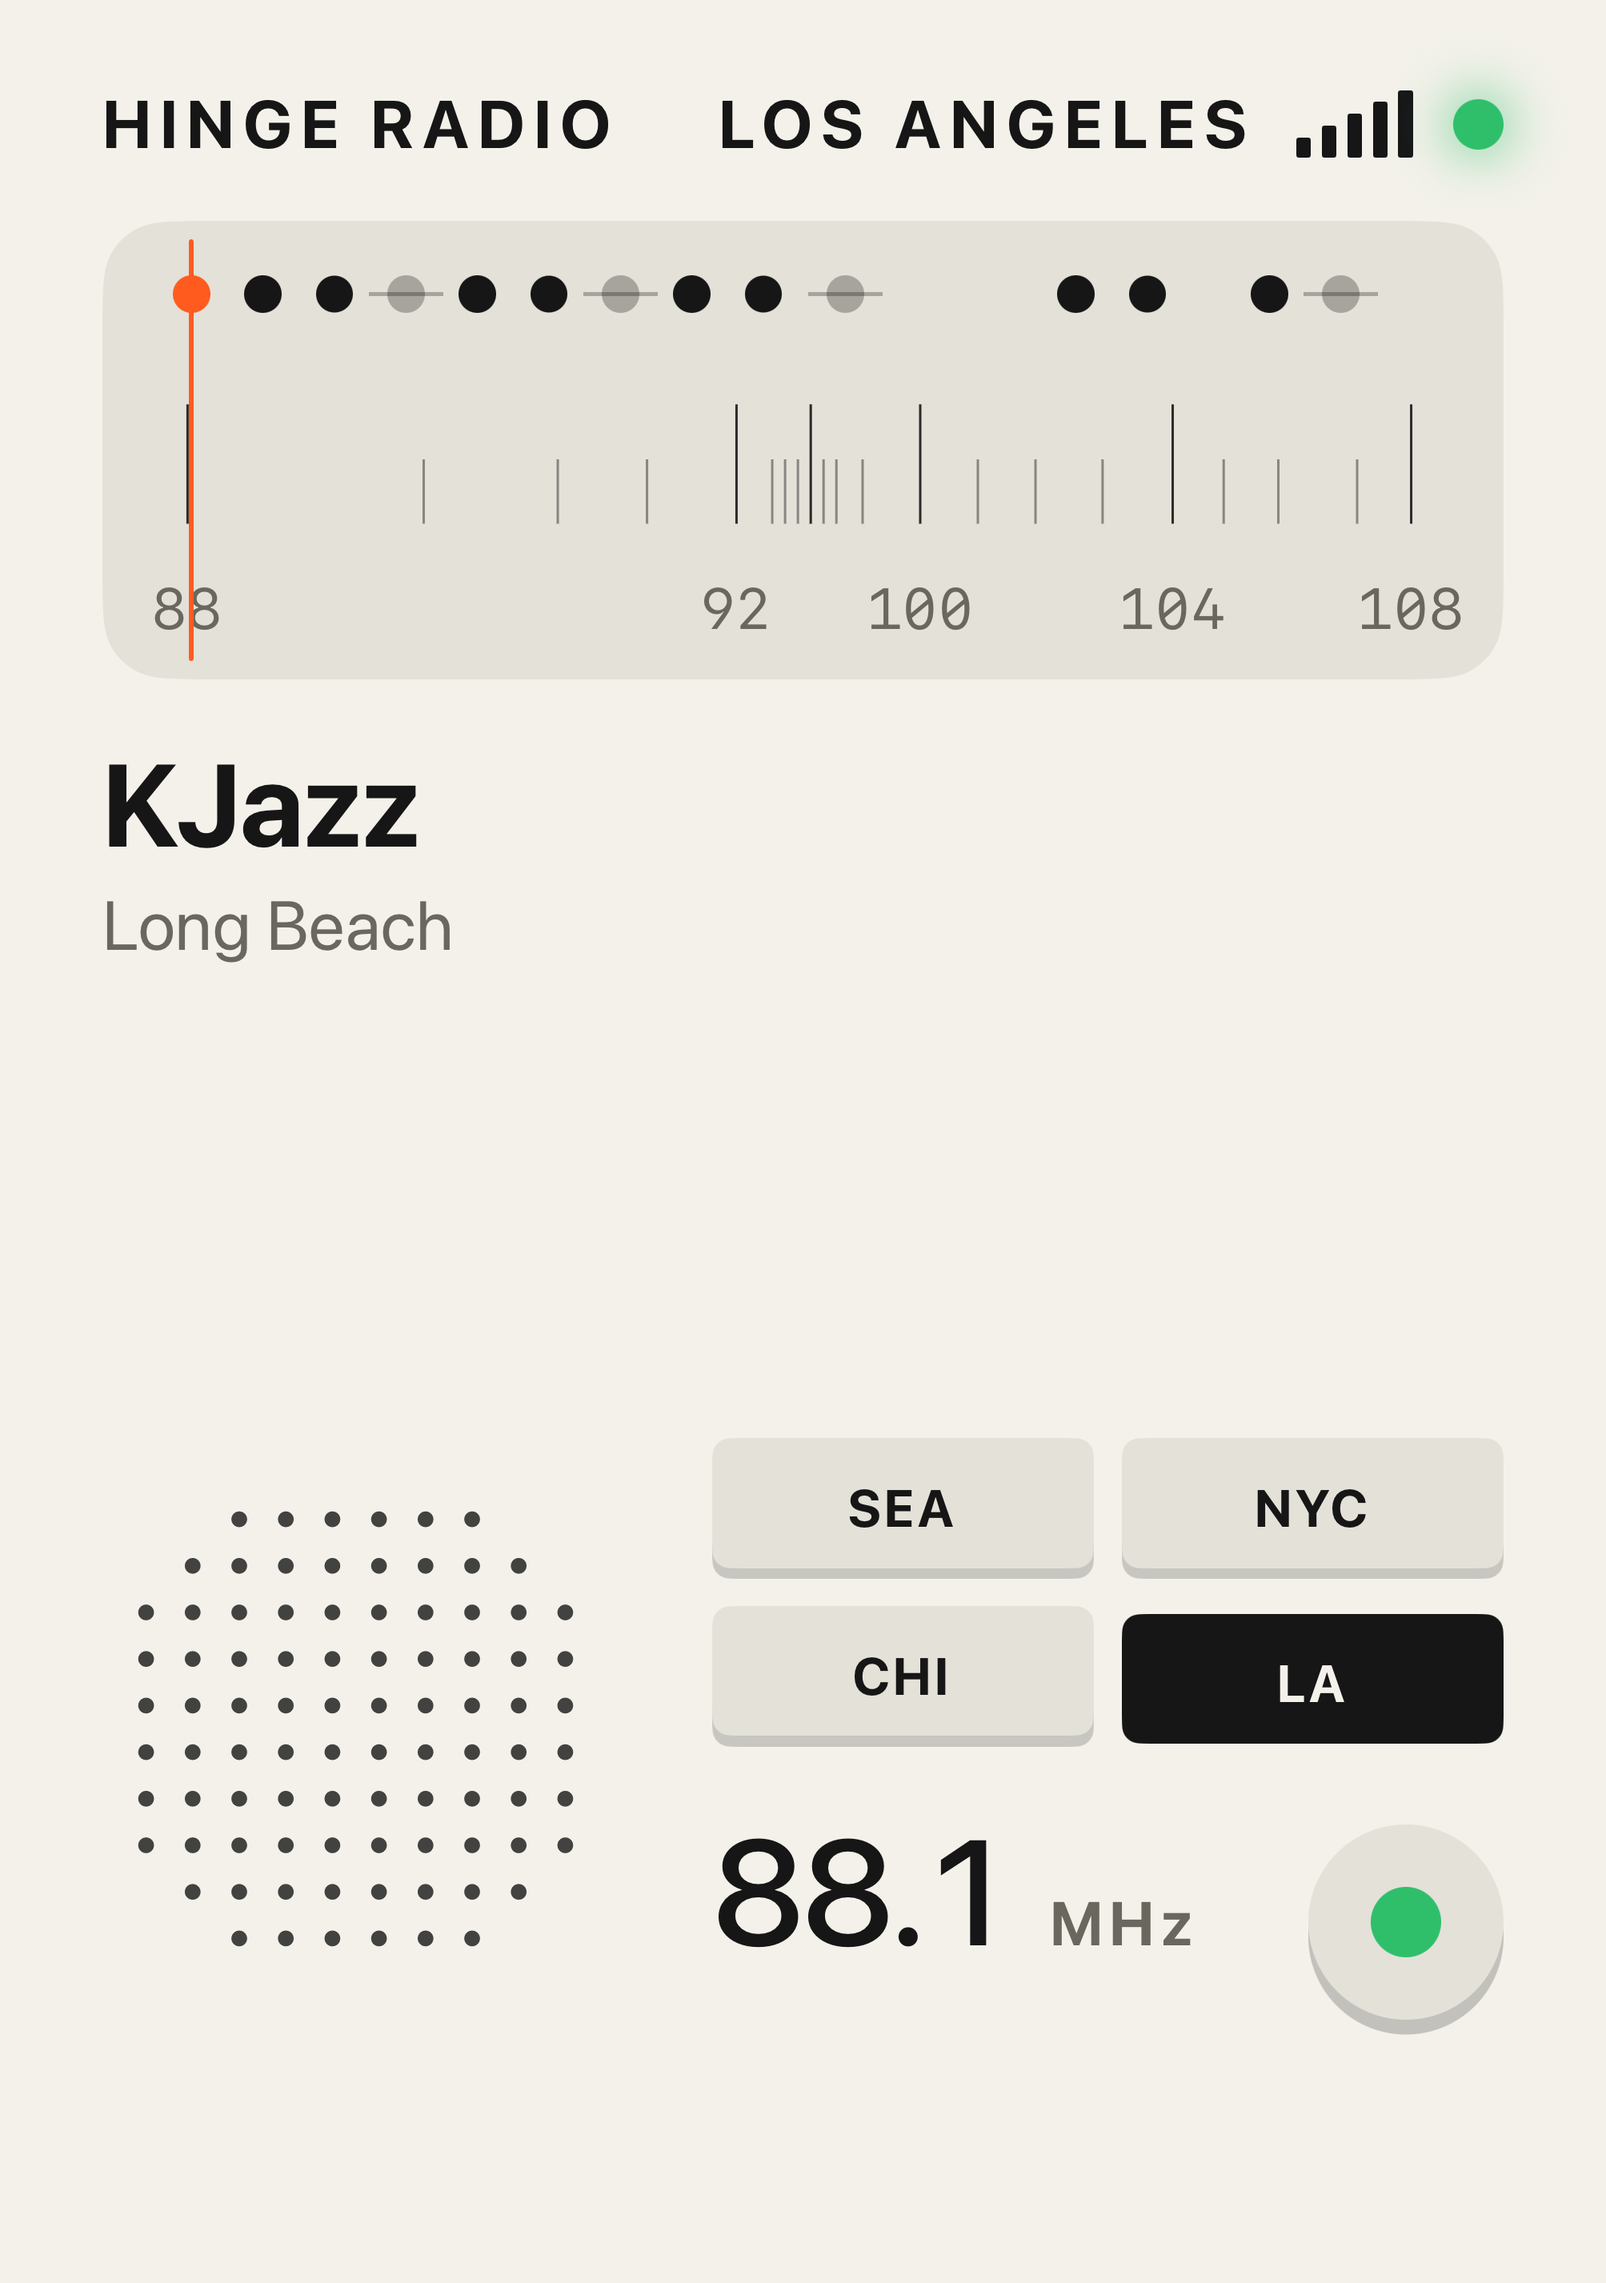
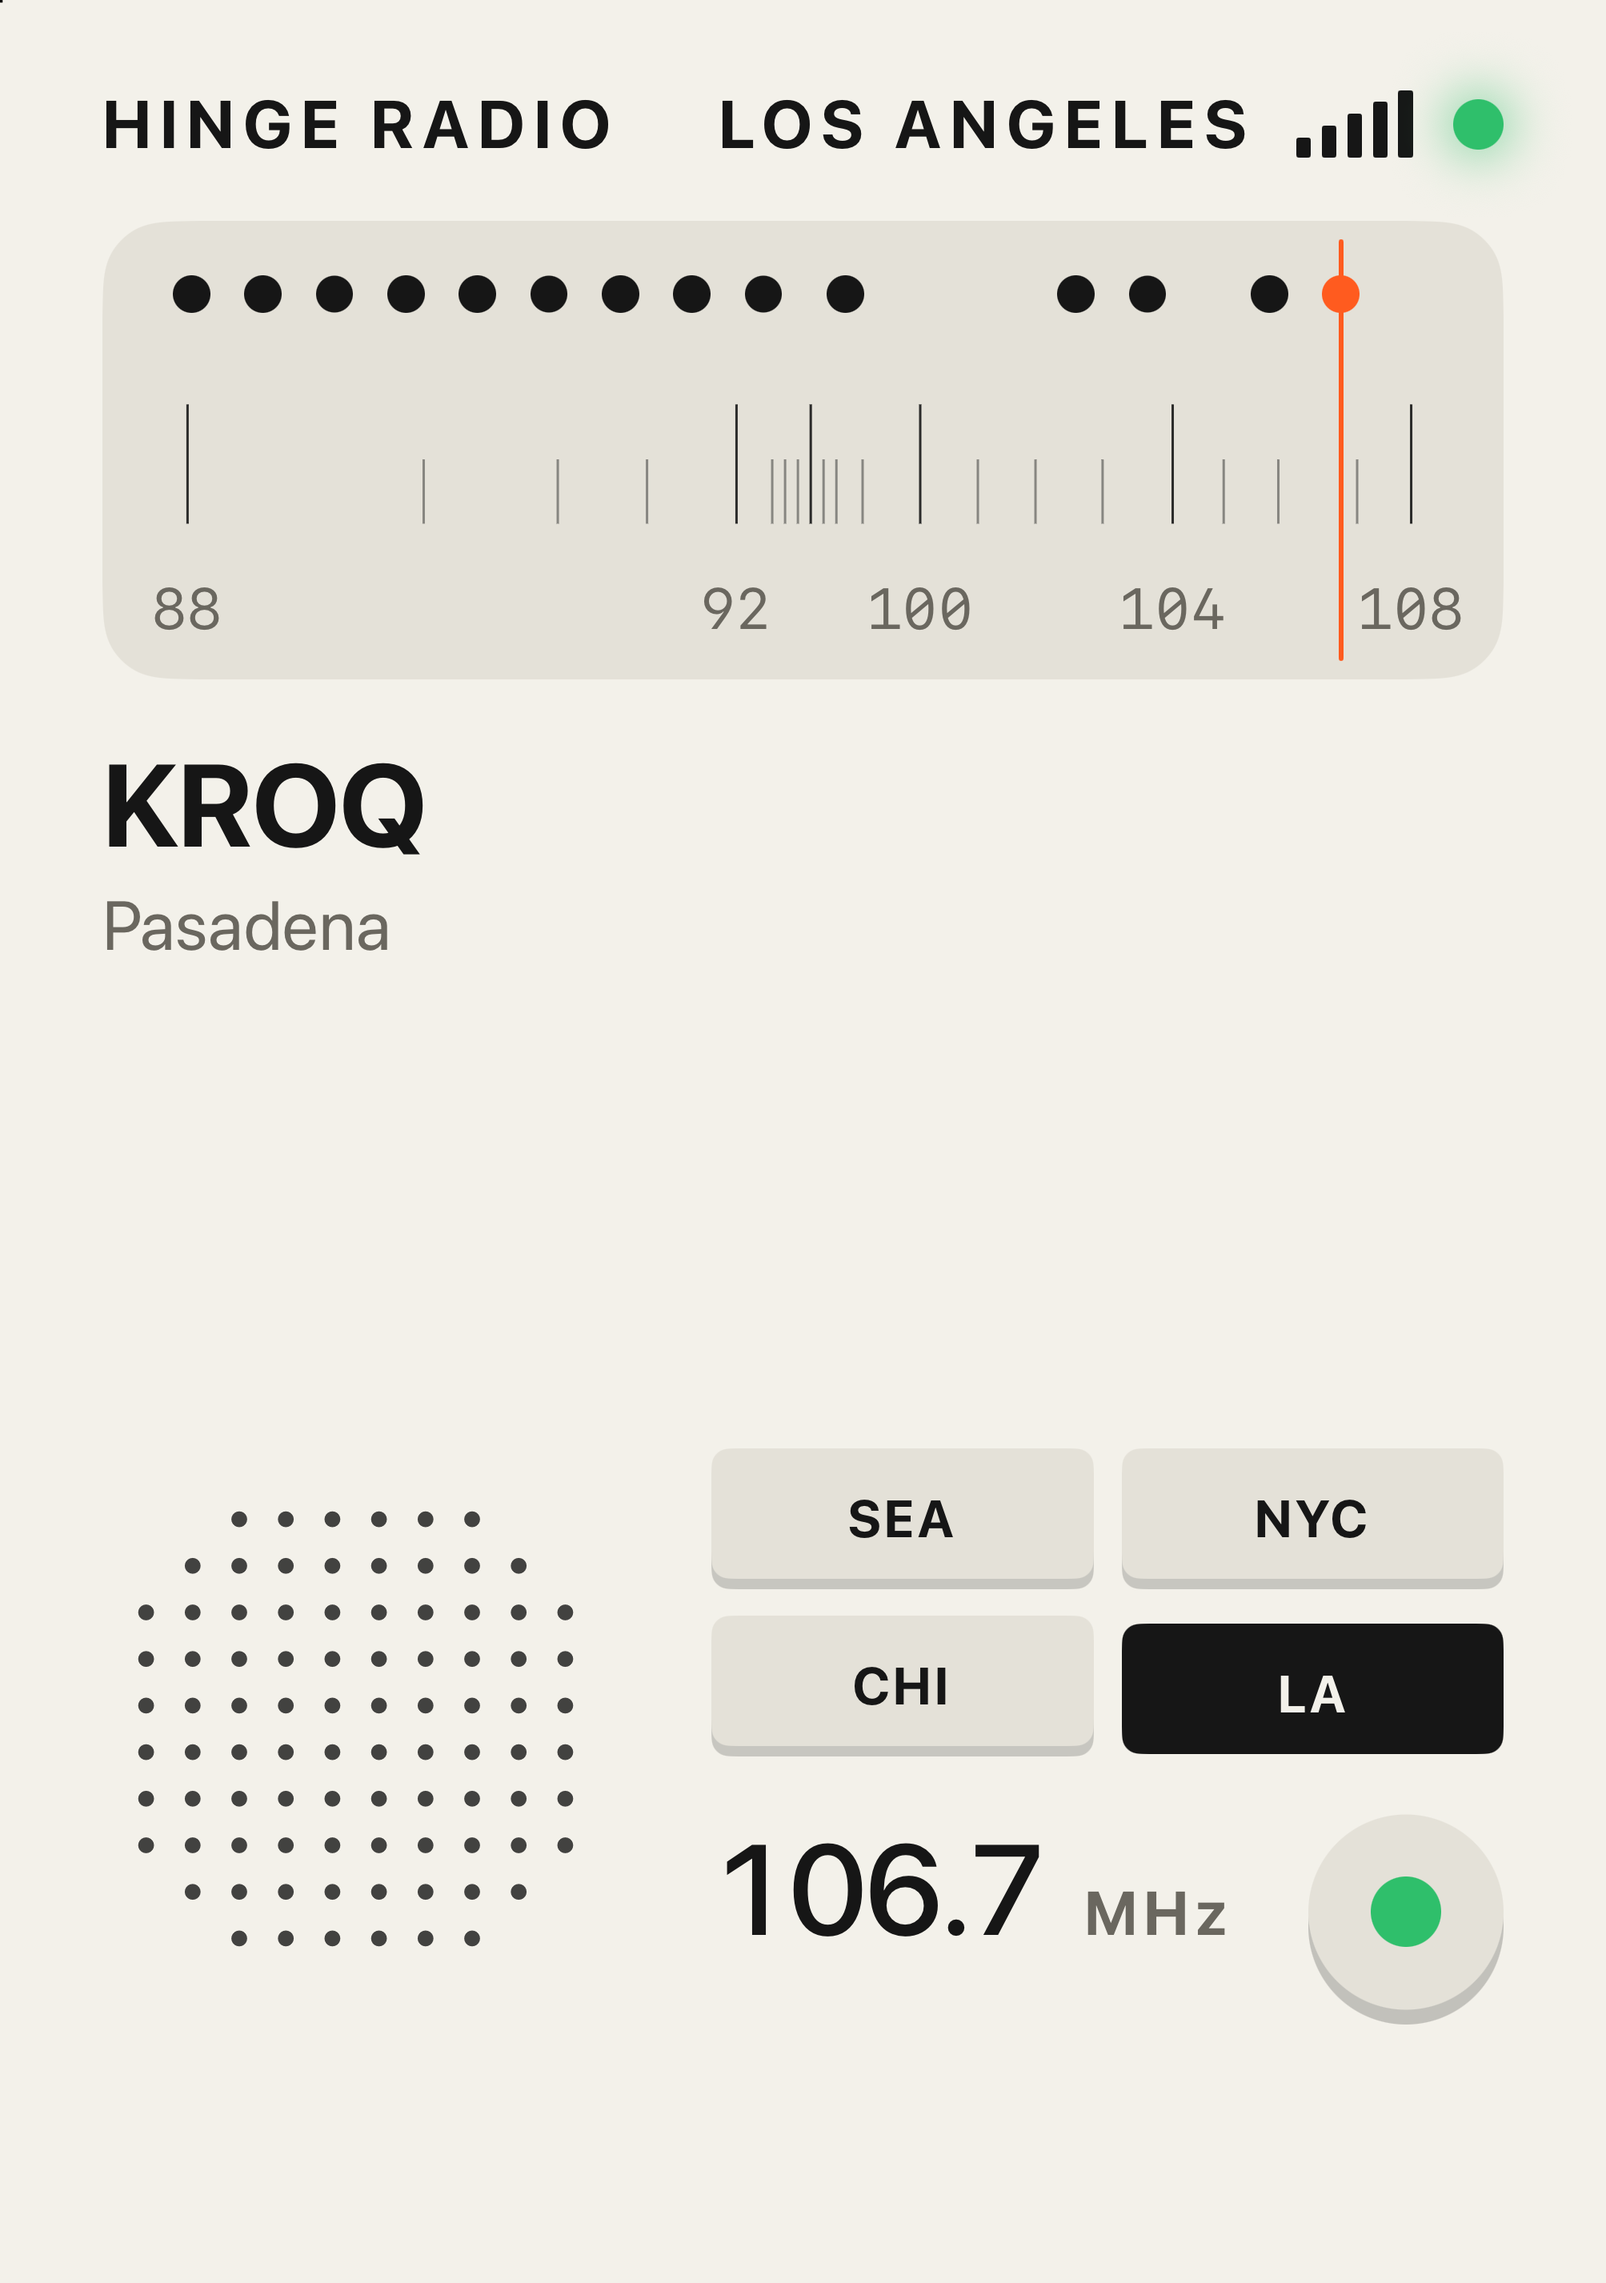
docs: every station played on the final build

diff --git a/README.md b/README.md
@@ -83,9 +83,25 @@ python3 -m unittest discover -s tools -p 'test_*.py'  # 19 tests
 
 On 2026-11-22, after the review fixes, the Swift suite passed 56 of 56 and the Python suite 19 of 19. One of the Python tests checks that the plain-http hosts in `Stations.json` and the ones `App/Info.plist` allows are the same set.
 
-## What was checked in the acceptance pass (2026-11-22)
+## Final acceptance pass (2026-11-22, commit 646a949)
 
-Run on the iPhone Duo simulator (iOS 27.1), muted. For every station the hinge was moved onto its mark until the log said `LOCK`, then the log was read for up to 14 seconds for `PLAYING` or `FAILED`. A station that failed was tried a second time after relaunching the app (the app does not retry a station it has marked "No signal" in the same session).
+This pass played every station on the final build (commit `646a949`), on the iPhone Duo simulator (iOS 27.1), muted. For each station the hinge was moved onto its mark until the log said `LOCK`, then the log was read for up to 16 seconds for `PLAYING` or `FAILED`.
+
+| City | Stations on the dial | Played | Failed |
+|---|---|---|---|
+| Seattle | 10 | 10 | 0 |
+| New York | 15 | 15 | 0 |
+| Chicago | 16 | 16 | 0 |
+| Los Angeles | 14 | 14 | 0 |
+| Total | 55 | 55 | 0 |
+
+No station logged `FAILED`, and none gave no result, so no station needed a second try after a relaunch. Stations reached `PLAYING` between 0.8 and 8.1 seconds after `CONNECT` (the slowest was WHPK in Chicago, 8.1 seconds; the next slowest were WONC at 6.9 and WRSU-FM at 5.0).
+
+One station needed a `RETRY`: KING-FM (Seattle). On the first connect of the pass, the log showed `ITEM FAILED KING-FM: unknown error`, then `RETRY KING-FM`, a second `CONNECT`, and `PLAYING` 5.4 seconds after the first `CONNECT`. When KING-FM was tuned again later in the pass it reached `PLAYING` 1.2 seconds after `CONNECT` with no `RETRY`. No other station logged `RETRY`.
+
+## What was checked in the earlier acceptance passes (earlier builds, 2026-11-22)
+
+This section describes the two earlier runs, on builds before the final one. Run on the iPhone Duo simulator (iOS 27.1), muted. For every station the hinge was moved onto its mark until the log said `LOCK`, then the log was read for up to 14 seconds for `PLAYING` or `FAILED`. A station that failed was tried a second time after relaunching the app (the app does not retry a station it has marked "No signal" in the same session).
 
 | City | Stations on the dial now | Played in the first pass (original build) | Played in the re-run (after the https and by-name fix) | Total played |
 |---|---|---|---|---|
@@ -94,8 +110,6 @@ Run on the iPhone Duo simulator (iOS 27.1), muted. For every station the hinge w
 | Chicago | 16 | 12 | 4 (WCRX, WMXM, WONC, WDCB) | 16 |
 | Los Angeles | 14 | 10 | 4 (KXLU, KPFK, KYSR, KROQ-FM) | 14 |
 | Total | 55 | 41 | 14 | 55 |
-
-After the last rebuild (the builder fix and the removal of WHCR-FM), which changed no stream address, only WHTZ was played again, and New York's marks were listed. The other stations were played on the earlier builds, not on the final one.
 
 The first pass found 15 stations blocked because their stream addresses were plain `http://`. They were fixed the same day: eight were moved to the `https://` form of the same address (through the corrections files) and seven are allowed by host name (see "Stations on plain http"). All 15 were then run again from a fresh launch: 14 reached `PLAYING`. The fifteenth, WHCR-FM (New York 90.3), failed on both tries over https with "The operation could not be completed", and was left out of the station list on 2026-11-22; plain http is blocked by the app. The other 41 stations played in the first pass and their addresses did not change. KING-FM failed its first connect in the first pass (`unknown error`) and played on its next two tries.
 
@@ -110,7 +124,7 @@ Two paths that had never been seen working were checked:
 - A station that does not answer: with one Seattle station's address pointed at nothing (a temporary change, undone), the log showed `CONNECT` then `FAILED` within about a tenth of a second, the screen said "No signal", the station's mark was struck through, and the next station tuned still reached `PLAYING`.
 - A phone with no hinge: on the standard iPhone 17 simulator (iOS 27.2) the app launches, and dragging a finger along the dial moves the needle and logs `LOCK` and `STATIC` lines with changing angles.
 
-Screenshots are in `docs/check/`: `10` to `13` were taken in the first pass and each shows one station playing in a city, with the green lamp, but they also show several marks struck through from the plain-http failures of that pass, and `11-nyc-playing.png` still shows the since-removed WHCR-FM mark; `14-closed.png` the closed screen, `15-flat.png` the phone flat, `16-no-signal.png` the no-answer case and `17-no-hinge-drag.png` the iPhone 17 drag.
+Screenshots are in `docs/check/`: `10` to `13` were retaken on the final build (commit `646a949`) and each shows one station playing in a city, with the green lamp and the city of licence under the station name, and no mark struck through: `10-sea-playing.png` shows "102.5 KZOK" with "Seattle" under it, `11-nyc-playing.png` "Lite FM" with "New York" (106.7 MHz), `12-chi-playing.png` "WGCI" with "Chicago" (107.5 MHz), and `13-la-playing.png` "KROQ" with "Pasadena" (106.7 MHz); `14-closed.png` the closed screen, `15-flat.png` the phone flat, `16-no-signal.png` the no-answer case and `17-no-hinge-drag.png` the iPhone 17 drag.
 
 ## Stations on plain http
 
